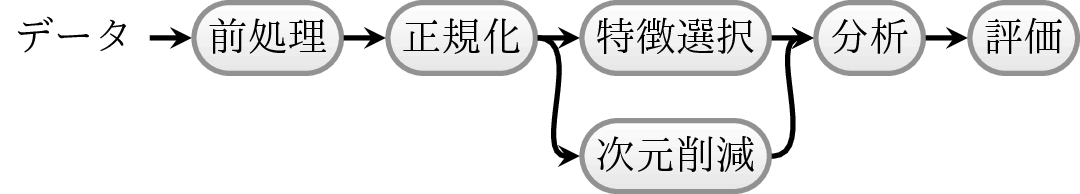
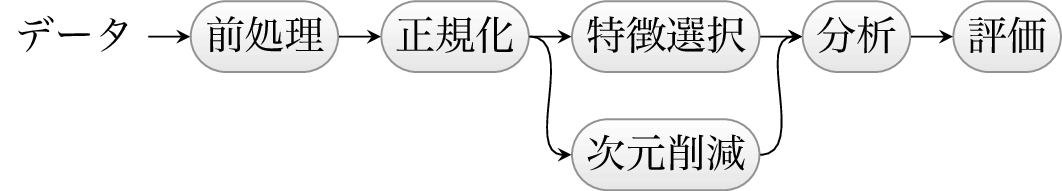
update

Changed region(s): [[0.0, 0.0, 1.0, 1.0], [0.0, 0.2356, 0.0311, 0.2618]]

diff --git a/graphs/flow.tex b/graphs/flow.tex
@@ -7,11 +7,10 @@
 \usetikzlibrary{graphs}
 
 \begin{document}
-\begin{tikzpicture}[>=stealth, very thick]
+\begin{tikzpicture}[>=stealth]
   \tikzset{process/.style={
-    rectangle, minimum size = 6mm, rounded corners = 3mm,
-    very thick, draw = black!50,
-    top color = white, bottom color = black!10,}
+    rectangle, minimum size = 6mm, rounded corners = 3mm, draw = black!50,
+    top color = white, bottom color = black!10}
   }
   \graph [grow right sep] {
     "データ" -> "前処理"[process] -> "正規化"[process] ->[out=0, in=180] {

diff --git a/positioning/flow.tex b/positioning/flow.tex
@@ -7,7 +7,7 @@
 \usetikzlibrary{positioning}
 
 \begin{document}
-  \begin{tikzpicture}
+  \begin{tikzpicture}[node distance=0.5cm]
     \tikzset{myarrow/.style={>=stealth, semithick, rounded corners=5pt}}
 
     \draw node[draw] (start) {start};
